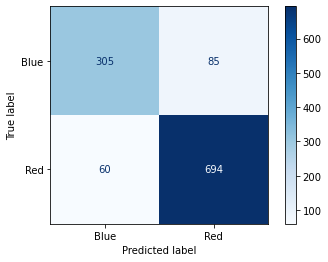
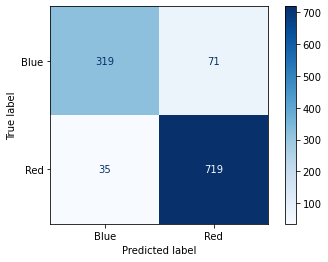
Updated README and confusion matrix image.

diff --git a/README.md b/README.md
@@ -99,8 +99,6 @@ The database tables were populated from within the `UFC_Final_Project.ipynb` Pyt
 
 ## Machine Learning Model
 
-The team determined that the machine learning model for implementation was the VotingClassifier ensemble with soft voting. The top five classifiers previously tested (based on accuracy score) were selected for inclusion in the voting ensemble.  With soft voting, each classifier provides a probability value that a specific data point belongs to a particular target class (`blue` or `red` winner). The predictions are then added up, and the target label with the greatest sum of weighted probabilities wins the vote.  Using VotingClassifier results in better performance than that of any of the five models used in the ensemble.  However, one drawback of using this ensemble is that all the models equally contribute to the prediction, even though some might perform better than others.
-
 ### Preliminary Data Preprocessing
 
 During the preliminary data preprocessing phase of the project, the team performed the following actions to clean and transform the data as a preprocessing step for the machine learning model.
@@ -547,6 +545,8 @@ Multiple arrays are created from splitting the train and test subsets randomly. 
 
 ### Machine Learning Model Selection
 
+The team determined that the machine learning model for implementation was the VotingClassifier ensemble with soft voting. The top five classifiers previously tested (based on accuracy score) were selected for inclusion in the voting ensemble.  With soft voting, each classifier provides a probability value that a specific data point belongs to a particular target class (`blue` or `red` winner). The predictions are then added up, and the target label with the greatest sum of weighted probabilities wins the vote.  Using VotingClassifier results in better performance than that of any of the five models used in the ensemble.  However, one drawback of using this ensemble is that all the models equally contribute to the prediction, even though some might perform better than others.
+
 | **Classifier**                  | **Balanced Accuracy Score** | **Precision** | **Precision_Blue** | **Precision_Red** | **Recall** | **Recall_Blue** | **Recall_Red** | **Parameters**                |
 |---------------------------------|-----------------------------|---------------|--------------------|-------------------|------------|-----------------|----------------|-------------------------------|
 | **XGBClassifier**               | 0.899                       | 0.898         | 0.881              | 0.907             | 0.899      | 0.813           | 0.943          | random_state=0                |
@@ -565,25 +565,9 @@ Multiple arrays are created from splitting the train and test subsets randomly. 
 - With default parameters, XGBClassifier has the highest accuracy score out of all classifiers.
 - HyperParameter optimization will be the next goal for selecting the best model.
 
-## Analysis: Logistic Regression ML Model (using [Kaggle data](Resources/data.csv))
-
-### Feature Selection 
-- Numerical
-    - `selector(dtype_include="number")`
-- Categorical
-    - `selector(dtype_include="category")`
-
 ### Results
 
 #### Classification Report
-|                | **precision** | **recall** | **f1-score** | **support** |
-|---------------:|--------------:|-----------:|-------------:|------------:|
-| **blue**       | 0.84          | 0.78       | 0.81         | 390         |
-| **red**        | 0.89          | 0.92       | 0.91         | 754         |
-|                |               |            |              |             |
-| **accuracy**   |               |            | 0.87         | 1144        |
-| **macro avg**  | 0.86          | 0.85       | 0.86         | 1144        |
-| **weight avg** | 0.87          | 0.87       | 0.87         | 1144        |
 
 #### Confusion Matrix
 ![Pipeline](Resources/Images/confusion_matrix.png)
